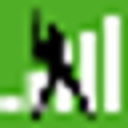
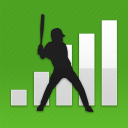
Resized Images, Cleaned up code. Ready for first release

diff --git a/background.js b/background.js
@@ -6,20 +6,7 @@
  You should have received a copy of the GNU General Public License along with this program. If not, see http://www.gnu.org/licenses/.
  */
 
-
-/*chrome.extension.onMessageExternal.addListener(function (request, sender, sendResponse) {
-	if ( request === "mgmiemnjjchgkmgbeljfocdjjnpjnmcg-poke" ) {
-		chrome.extension.sendMessage(
-			sender.id, {
-				head: "mgmiemnjjchgkmgbeljfocdjjnpjnmcg-pokeback",
-				body: info,
-			});
-	}
-});
-*/
-
 // Context Menu Search
-
 chrome.contextMenus.create({
 	title: "Search \"%s\" on Fangraphs",
 	contexts: ["selection"],
@@ -46,11 +33,6 @@ chrome.omnibox.onInputChanged.addListener(function(text, suggest) {
 	if(text.length > 0){
 		currentRequest = suggests(text, function(data) {
 			var results = [];
-			console.log('data.length = ' + data.length);
-			console.log('lastFirstResult = ' + firstResult);
-			if (data[0] == firstResult) {
-				console.log('data[0] == lastFirstResult');
-			}
 			firstResult = data[0];
 			if (data.length < 5) {
 				num = data.length;
@@ -59,13 +41,11 @@ chrome.omnibox.onInputChanged.addListener(function(text, suggest) {
 			}
 			updateDefaultSuggestion(data[0]);
 			for (var i = 1; i < num; i++) {
-				console.log('data[' + i + '] = ' +data[i]);
 				results.push({
 					content: data[i],
 					description: data[i]
 				});
 			}
-
 			suggest(results);
 		});
 	} else {
@@ -85,7 +65,7 @@ var searchLabel = chrome.i18n.getMessage('search_label');
 
 function updateDefaultSuggestion(text) {
 	chrome.omnibox.setDefaultSuggestion({
-		description: text//searchLabel + 'Search on Fangraphs: %s'
+		description: text
 	});
 
 };
@@ -117,10 +97,6 @@ function suggests(query, callback) {
 						names.push(links[index].childNodes[0].textContent);
 					}
 				}
-
-				//var links = page.getElementsByTagName('a');
-
-
 				callback(names);
 
 			}catch(e){
@@ -144,12 +120,3 @@ chrome.omnibox.onInputEntered.addListener(function(text) {
 		chrome.tabs.update(null, {url: "http://" + "www.fangraphs.com/players.aspx?lastname=" + text});
 	}
 });
-
- /*
-chrome.runtime.onMessage.addListener(function(request, sender, sendResponse) {
-	if (request.method == "getLocalStorage")
-		sendResponse({data: localStorage[request.key]});
-	else
-		sendResponse({}); // snub them.
-});
-	*/
